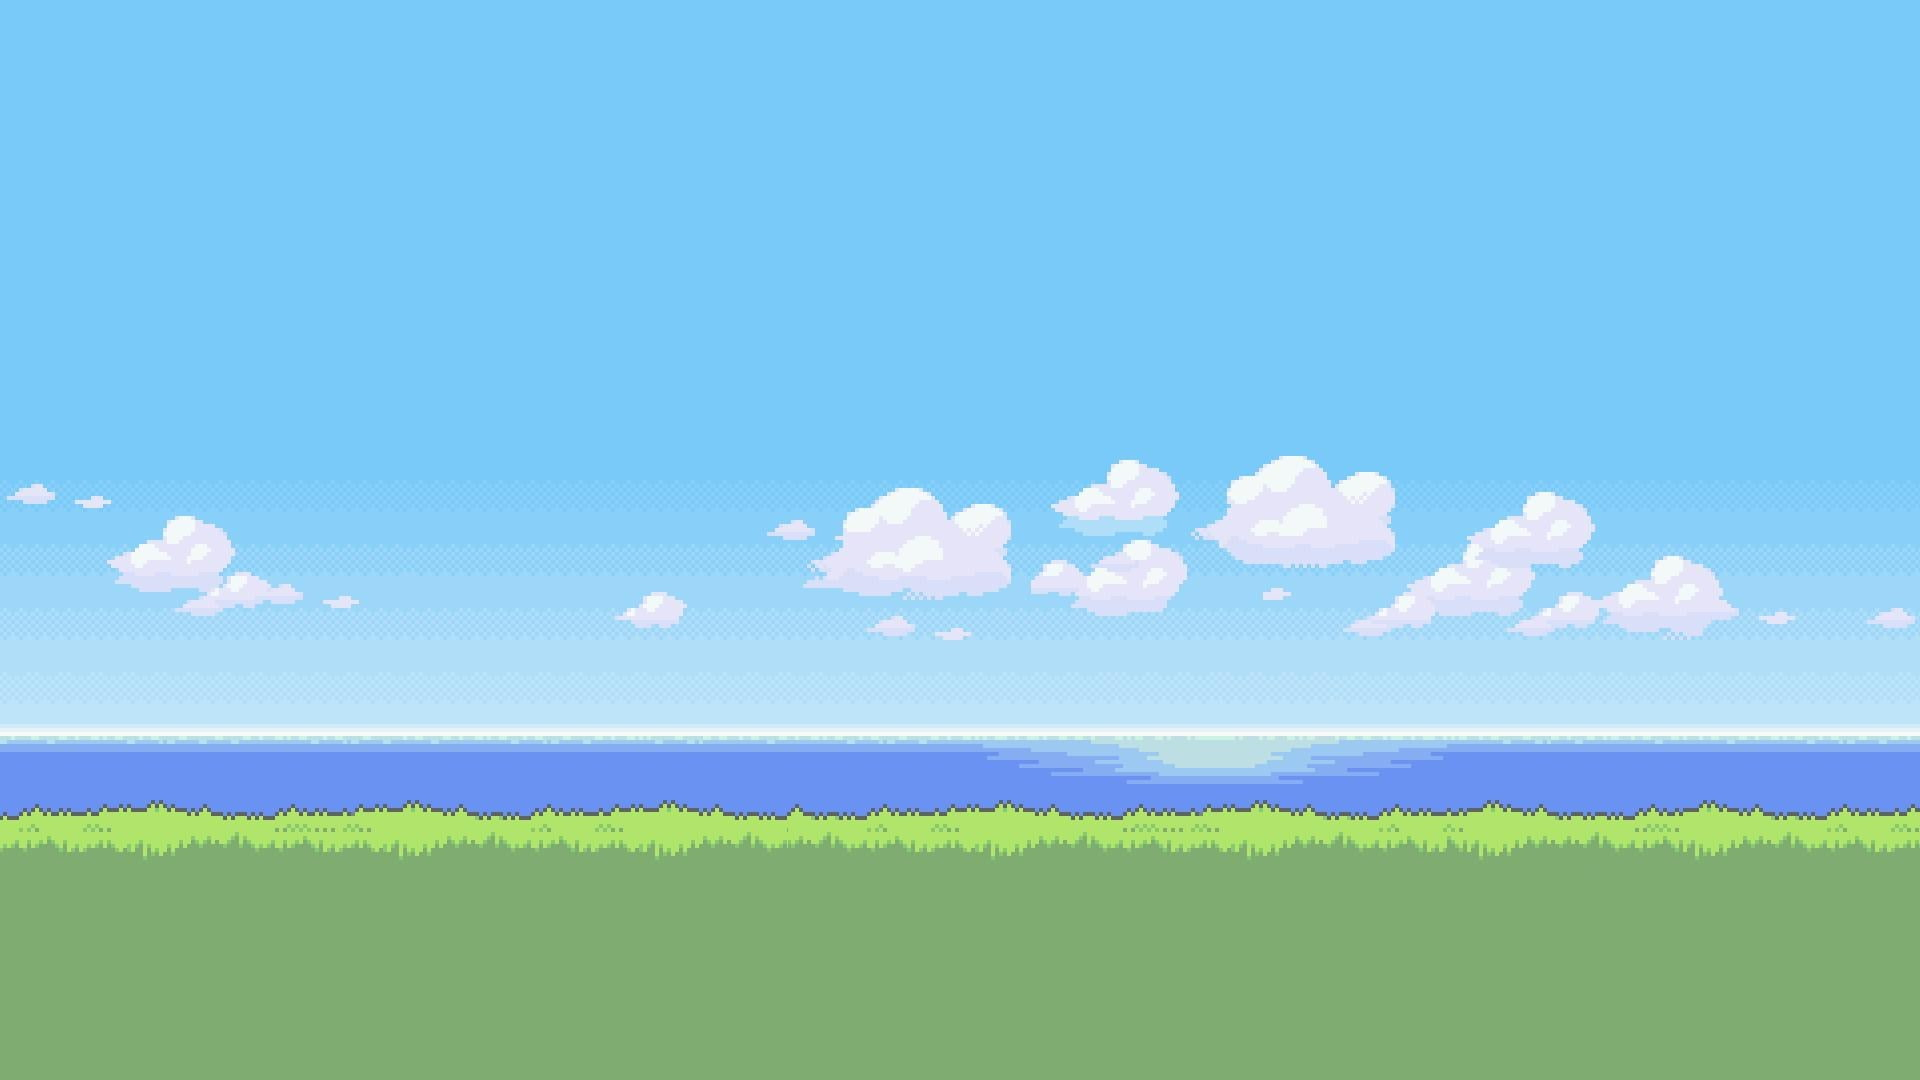
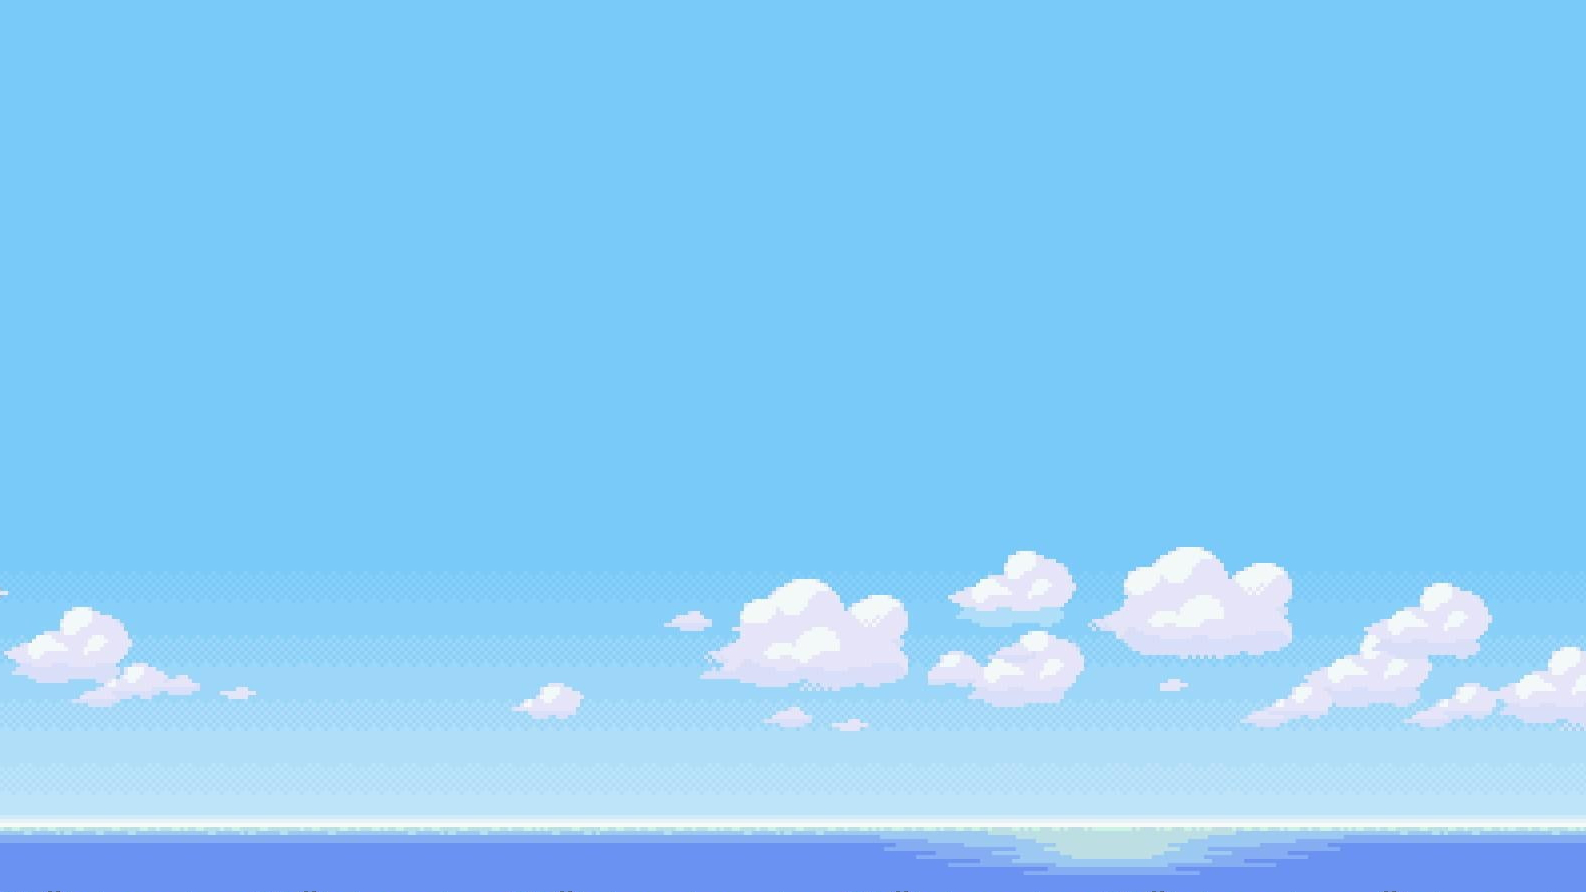
finished HTML, CSS

diff --git a/javascript/index.js b/javascript/index.js
@@ -14,7 +14,7 @@ fg.src = "https://github.com/sil-sin/Gotta-Win-Em-All-provisory-/blob/main/image
 let pokemon = new Image()
 pokemon.src = 'https://github.com/sil-sin/Gotta-Win-Em-All-provisory-/blob/main/images/1.svg?raw=true'
 function draw(){
-    ctx.drawImage(bg , 0, 0 )
+    ctx.drawImage(bg , 0, 0 ,700, 400)
     ctx.drawImage(fg, 0,300)
     ctx.drawImage(pokemon,30, 244,60,60 )
 }
